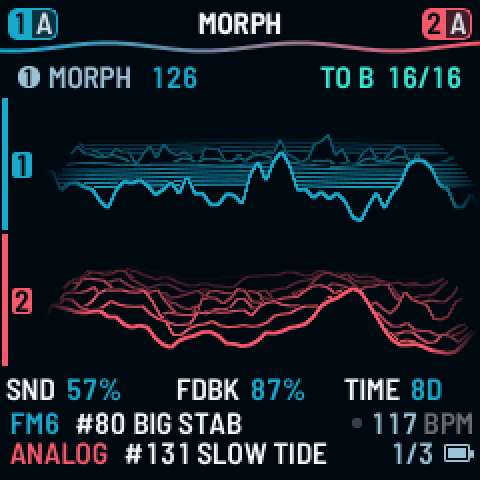
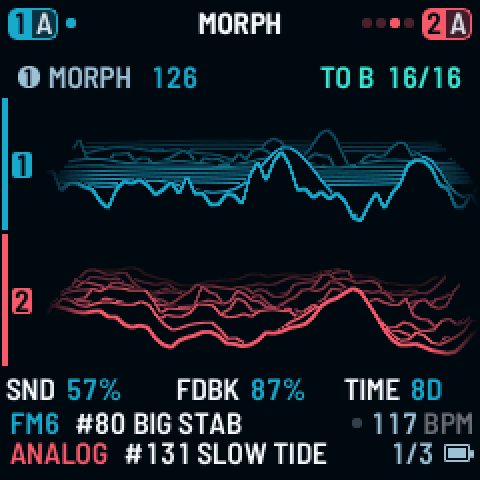
Pictures: the README / site guide pictures and the AUTO TIDE glide GIF re-shot on 1.1.0 (#159)
Same emulator scripts and frame picks as PR 130/135, on jam11 c771ed05 (firmware = TIDE 1.1.0), music playing
(SAVE stopped, as SAVE needs). They now show 1.1.0's screen: no tide line under the page title (PR 143) and the loop
dots beside the part capsules (PR 155). auto-tide, tide-settings, morph, multis, quick-arp, live-rec, swell-next,
save, the glide GIF and the emulator poster re-shot; mixer came out pixel-identical and stays. Stills 2x, GIF 4x,
nearest neighbour; alt texts still match. README names 1.1.0 as the pictures' build.

diff --git a/README.md b/README.md
@@ -27,7 +27,7 @@ A fresh unit comes up ready: multi **M02 DUB CHORD**, AUTO TIDE on EVOLVE, both 
 
 ## How it works
 
-Each block says what a function does for you and which control to use. The pictures are the unit's own screen on `1.0.0-b13`, shot from the web emulator with music playing. The details of every row are in the [TIDE guide](docs/TIDE_GUIDE.md).
+Each block says what a function does for you and which control to use. The pictures are the unit's own screen on `1.1.0`, shot from the web emulator with music playing. The details of every row are in the [TIDE guide](docs/TIDE_GUIDE.md).
 
 ### AUTO TIDE: the glide
 
